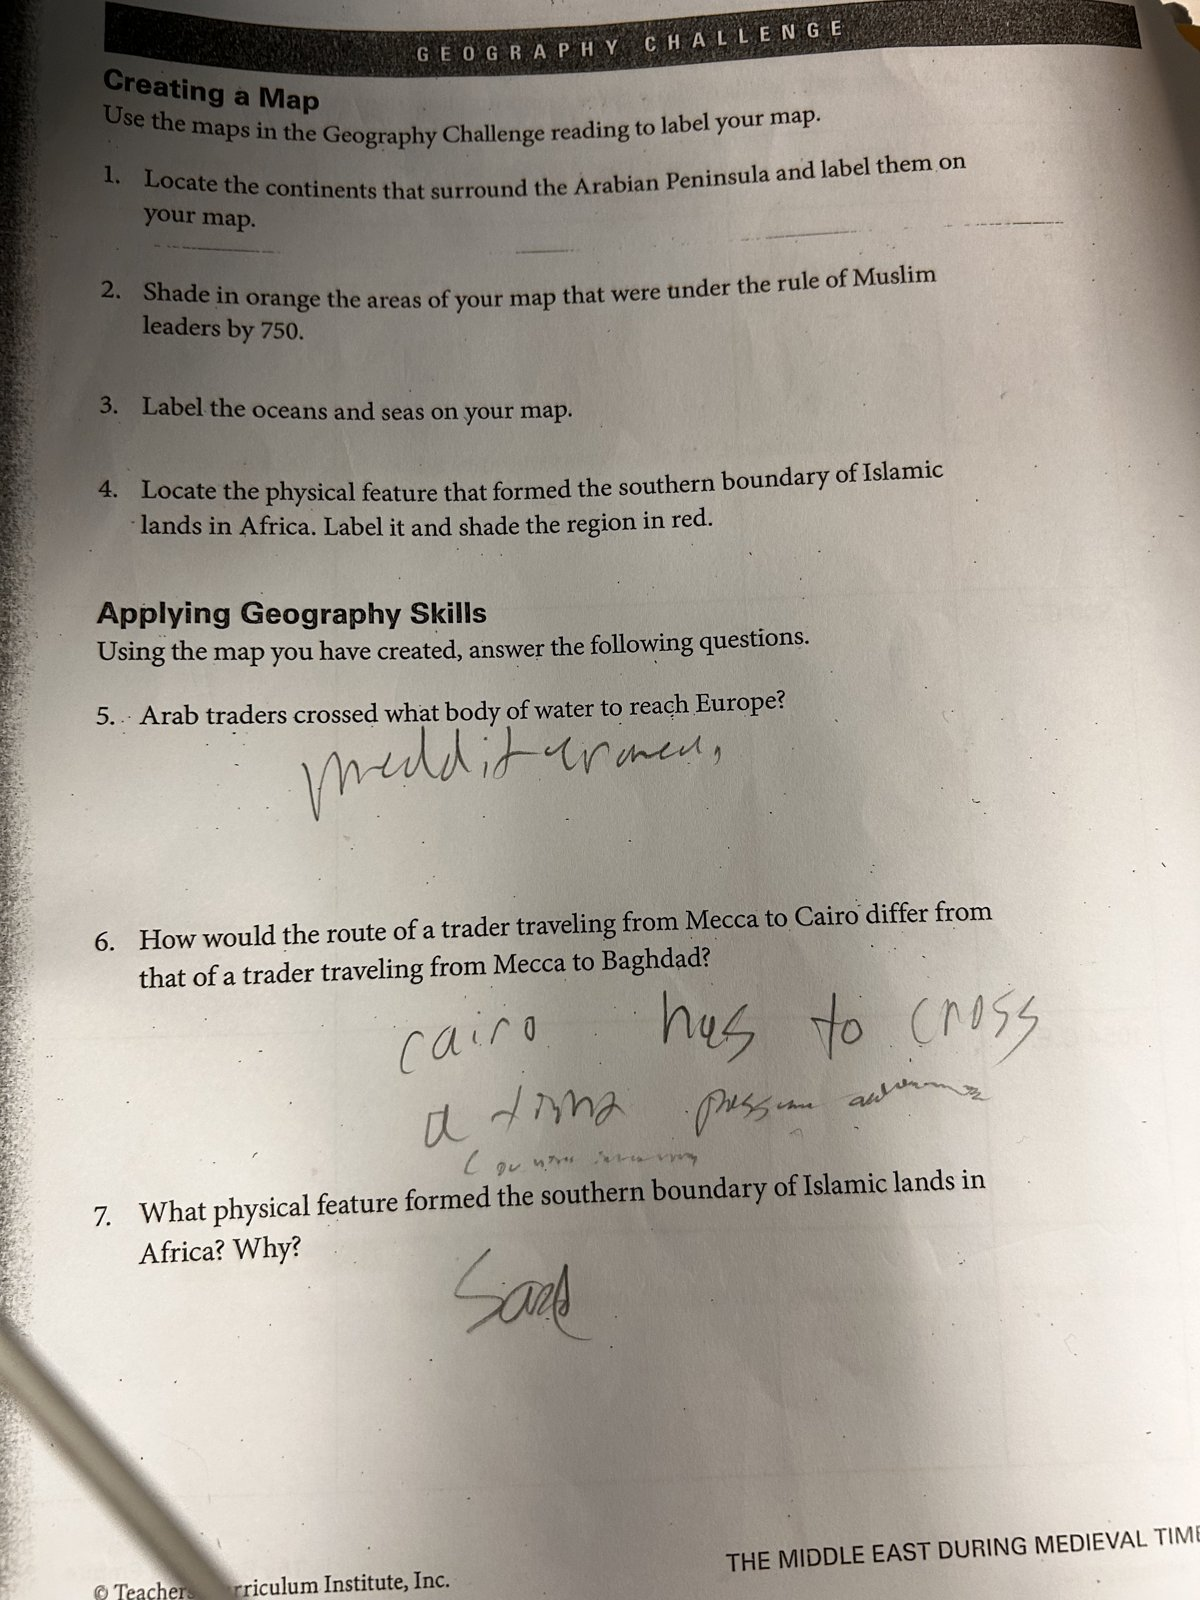
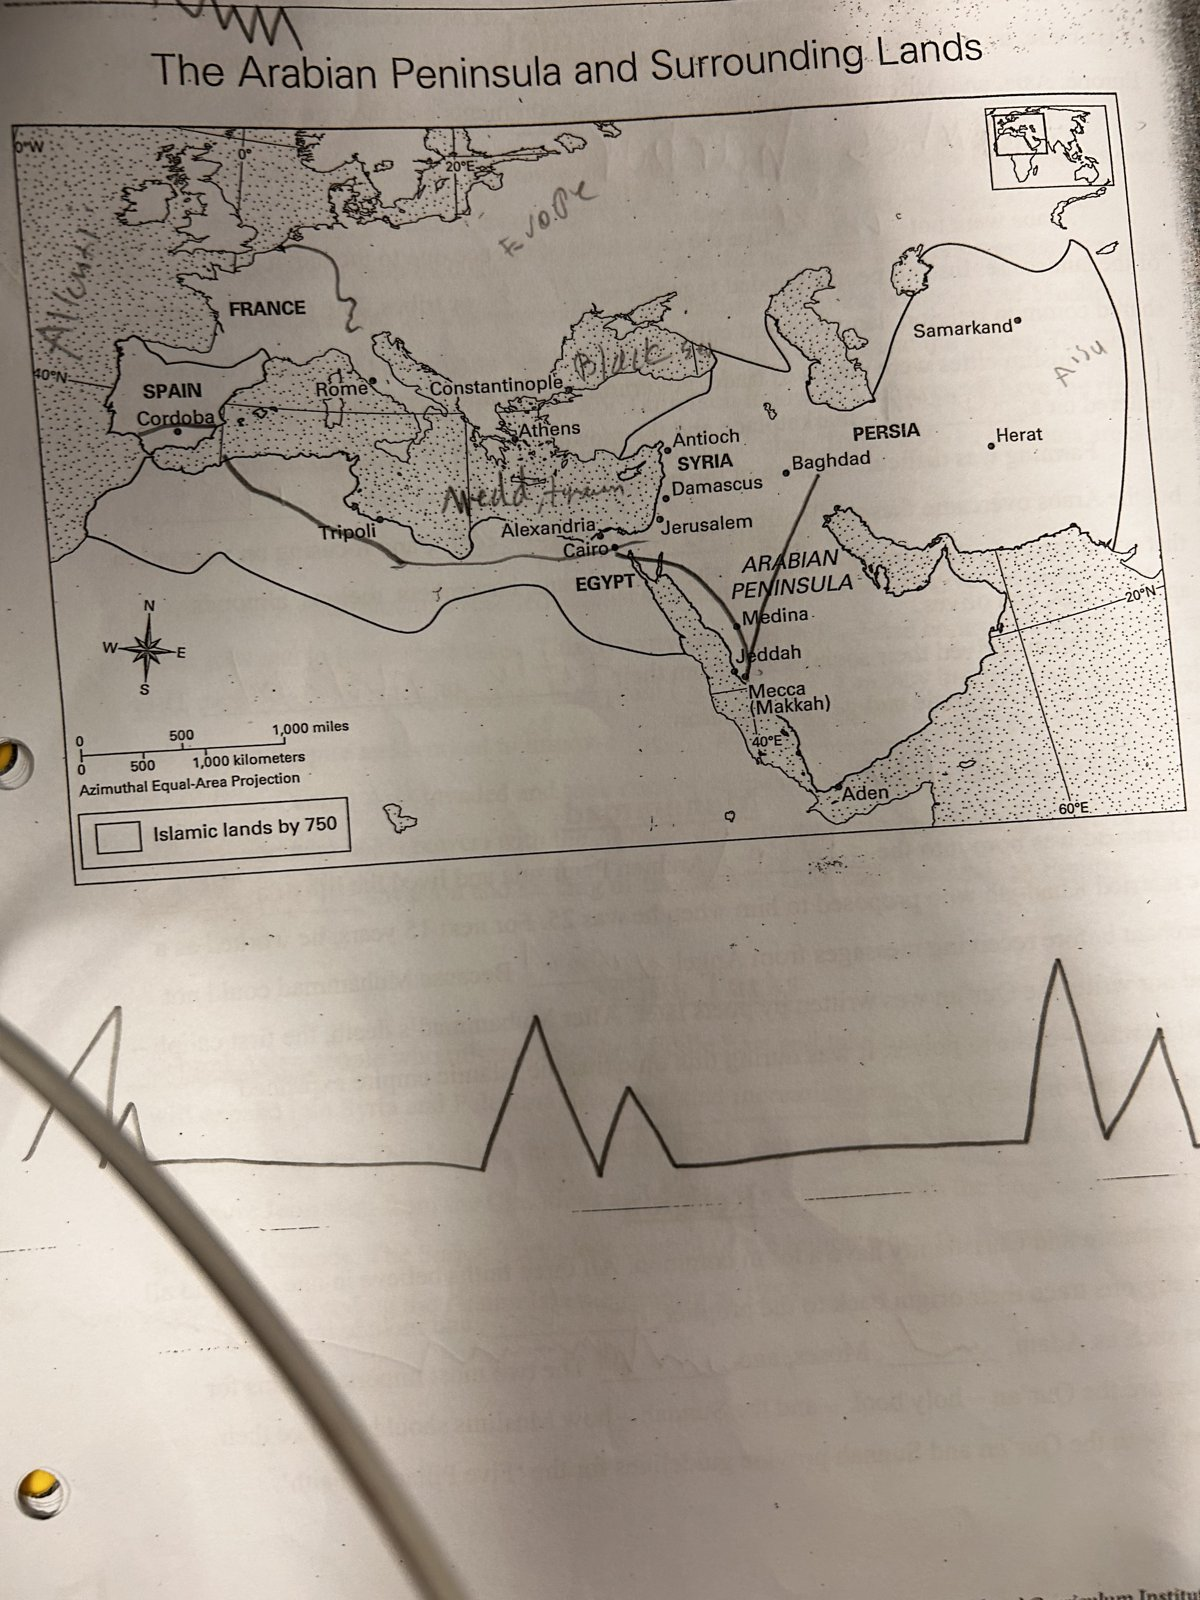
Add files via upload

diff --git a/activities.html b/activities.html
@@ -188,14 +188,14 @@ $("tlCheck").addEventListener("click", () => {
 $("tlReset").addEventListener("click", startTimeline);
 
 /* ===== MAP ===== */
-// Target spots, in pixels of the 1200 x 1600 photo of the packet's map.
+// Target spots, in pixels of the 1200 x 1600 photo of the packet's map (IMG_0607).
 // Each spot counts as a hit within 60 pixels of its center.
 const MAP_TARGETS = [
-  { name: "Constantinople", x: 515, y: 395 },
-  { name: "Baghdad", x: 786, y: 470 },
-  { name: "Cairo", x: 612, y: 548 },
-  { name: "Mecca", x: 742, y: 680 },
-  { name: "Jerusalem", x: 662, y: 522 }
+  { name: "Constantinople", x: 569, y: 389 },
+  { name: "Baghdad", x: 785, y: 472 },
+  { name: "Cairo", x: 613, y: 547 },
+  { name: "Mecca", x: 745, y: 675 },
+  { name: "Jerusalem", x: 660, y: 518 }
 ];
 let mapIdx = 0;
 let mapMisses = 0;
